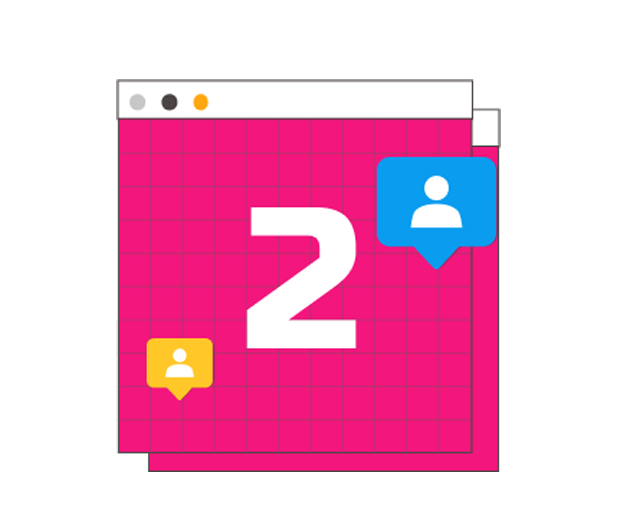
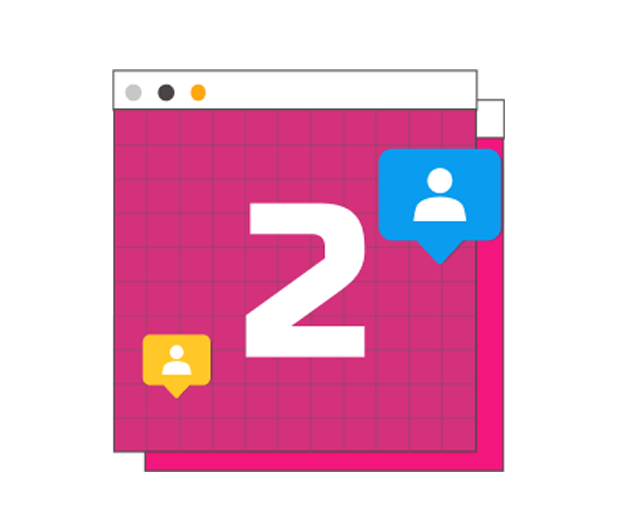
idem

diff --git a/assets/css/style.css b/assets/css/style.css
@@ -262,7 +262,7 @@ margin: 5px;
 }
 
 .header.header-scrolled {
-  background: #F2167D;
+  background: #D3317C;
   padding: 15px 0;
   box-shadow: 0px 2px 20px rgba(1, 41, 112, 0.1);
 }
@@ -653,7 +653,7 @@ margin: 5px;
 # About
 --------------------------------------------------------------*/
 .about .content {
-  background-color: #E42D82;
+  background-color: #D3317C;
   padding: 40px;
  color: #ffffff;
  font-family: "Bricolage Grotesque", sans-serif;
@@ -706,7 +706,7 @@ margin: 5px;
 }
 
 #about .about {
-  background-color:#E42D82
+  background-color:#D3317C
 }
 /*--------------------------------------------------------------
 # Values
@@ -727,7 +727,7 @@ margin: 5px;
 
 .values .box h3 {
   font-size: 24px;
-  color: #F2167D;
+  color: #D3317C;
   font-family: "Russo One", sans-serif !important; 
   font-variant: bold;
   font-weight: 400;
@@ -843,7 +843,7 @@ margin: 5px;
   text-transform: uppercase;
   font-size: 15px;
   font-weight: 400;
-  color: #F2167D;
+  color: #D3317C;
   padding: 12px 0;
   margin-right: 25px;
   margin-bottom: -2px;
@@ -859,7 +859,7 @@ margin: 5px;
   font-size: 18px;
   margin: 0;
   font-weight: 700;
-  color: #F2167D;
+  color: #D3317C;
   font-family: "Bricolage Grotesque", sans-serif !important;
 }
 
@@ -867,7 +867,7 @@ margin: 5px;
   font-size: 24px;
   line-height: 0;
   margin-right: 8px;
-  color: #F2167D;
+  color: #D3317C;
 }
 
 .features .tab-content {
@@ -1046,20 +1046,20 @@ margin: 5px;
 }
 
 .services .service-box.pink {
-  border-bottom: 3px solid #f51f9c;
+  border-bottom: 3px solid #D3317C;
 }
 
 .services .service-box.pink .icon {
-  color: #f51f9c;
+  color: #D3317C;
   background: #feecf7;
 }
 
 .services .service-box.pink .read-more {
-  color: #f51f9c;
+  color: #D3317C;
 }
 
 .services .service-box.pink:hover {
-  background: #f51f9c;
+  background: #D3317C;
 }
 
 .services .service-box:hover h3,
@@ -1093,7 +1093,7 @@ margin: 5px;
 
 .pricing h3 {
   font-weight: 700;
-  font-size: 18px;
+  font-size: 22px;
   margin-bottom: 15px;
   
 }
@@ -1507,7 +1507,7 @@ margin: 5px;
   font-size: 18px;
   font-weight: 800;
   margin: 10px 0 5px 0;
-  color: #E42D82;
+  color: #D3317C;
 }
 
 .testimonials .testimonial-item h4 {
@@ -2460,7 +2460,7 @@ padding-bottom: 90px !important;
 }
 
 .footer .footer-top {
-  background:#E42D82;
+  background:#D3317C;
   background-size: contain;
   border-top: 0px solid #e1ecff;
   border-bottom: 0px solid #e1ecff;
@@ -2492,7 +2492,7 @@ padding-bottom: 90px !important;
   font-weight: 700;
   letter-spacing: 1px;
   color: #ffffff;
-  font-family: "Nunito", sans-serif;
+  font-family: "Bricolage Grotesque", sans-serif;
   margin-top: 3px;
 }
 

diff --git a/index.html b/index.html
@@ -1333,10 +1333,10 @@
             <p>Sumáte a la moda circular, unite a Ecostyle! </p>
             
             <div class="social-links mt-3">
-              <a href="#" class="twitter"><i class="bi bi-twitter"></i></a>
               <a href="#" class="facebook"><i class="bi bi-facebook"></i></a>
+              <a href="#" class="pinterest"><i class="bi bi-pinterest"></i></a>
               <a href="#" class="instagram"><i class="bi bi-instagram"></i></a>
-              <a href="#" class="linkedin"><i class="bi bi-linkedin"></i></a>
+              <a href="#" class="tiktok"><i class="bi bi-tiktok"></i></a>
             </div>
           </div>
 
@@ -1380,7 +1380,7 @@
 
     <div class="container">
       <div class="copyright">
-        &copy; Copyright <strong><span>Ecostyle</span></strong>. Todos los derechos reservados
+        &copy;Copyright <strong><span>Ecostyle</span></strong>. Todos los derechos reservados
       </div>
       <div class="credits">
         <!-- All the links in the footer should remain intact. -->
